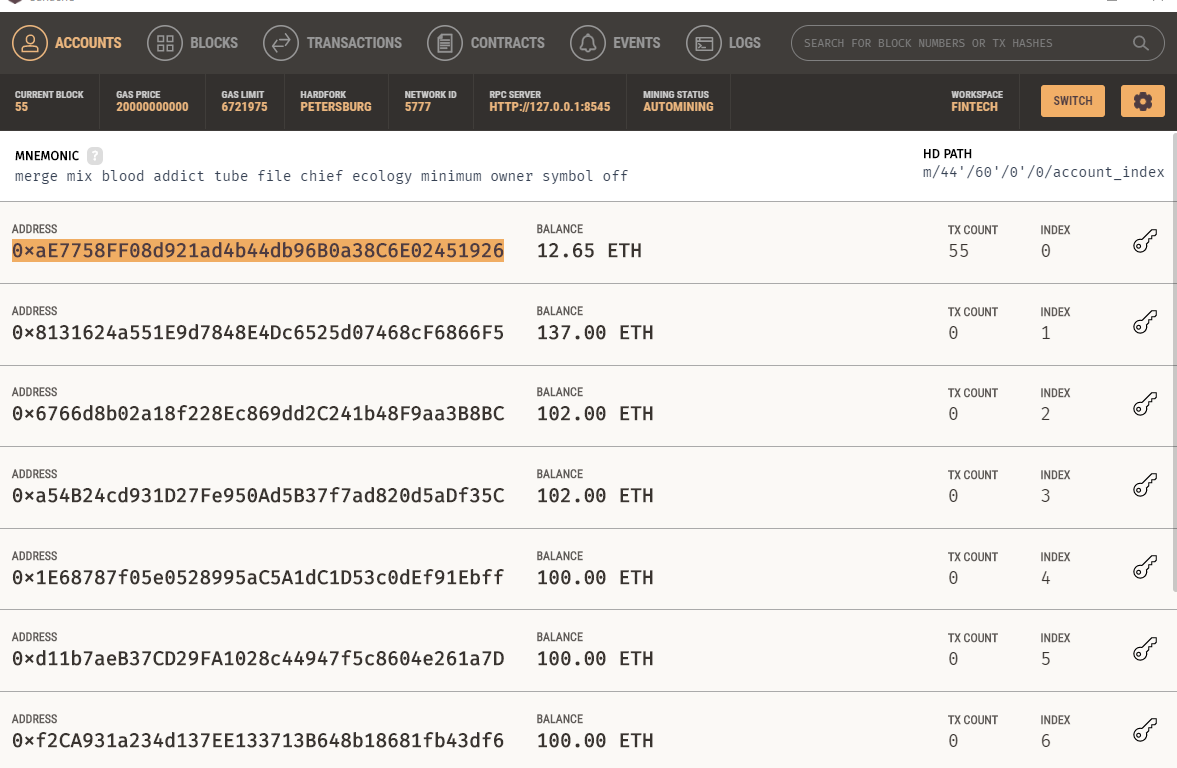
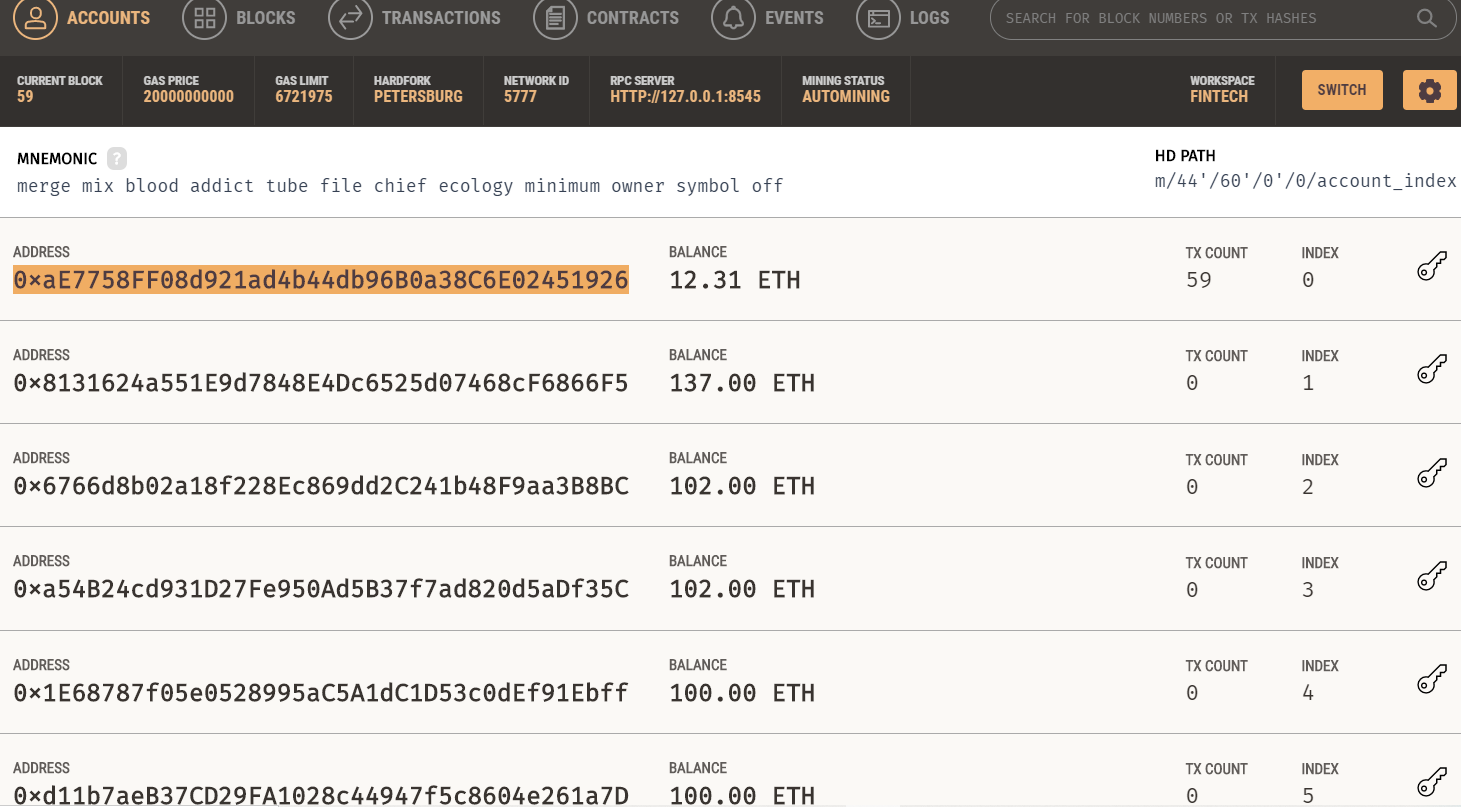
README completed

diff --git a/README.md b/README.md
@@ -1,2 +1,50 @@
 # PupperCoin
 Solidity file for PupperCoin Crowdsale
+
+
+This is a contract written in Solidity for Ethereum. It is designed to help fund development.
+
+## I. Dependencies
+The use of this contract requires the following:
+Ganache
+
+Metamask
+
+remix.ethereum.org
+
+MyCrypto
+
+## II. Operation
+
+> Step One - Change the testing timeframe in the solidity file from now+24 weeks to now+5 minutes so your crowdfunding is testable.
+
+![Change Time](Images/TestingTimeframe.png)
+
+> Step Two - Compile the contract and deploy using the PupperCoinSaleDeployer. Enter the name Symbol, wallet and goal information. *Note I used 10 coins as the goal to test the contract.*
+
+![Deploy](Images/Deploy.png)
+
+> Step Three - Confirm Deployment in MetaMask.
+![Deploy](Images/MetaDeploy.png)
+
+> Step Four - Locate the Token and Token Sale Addresses.
+![Deposit](Images/ContractAddress.png)
+
+> Step Five - Using the token_sale_address, deploy the PupperCoin Sale entering the address in the "At Address" field.
+
+![Sale](Images/SaleAddress.png)
+
+> Step Six - Using the token_address, deploy Puppercoin entering the address in the "At Address" field.
+
+> Step Seven - Enter the number of Ether you want to use to purchase tokens and enter the address next to "buy tokens" in PupperCoin Sale.
+
+![Amount](Images/PC_Sale.png)
+
+    > You will get a MetaMask confirmation when you enter the amount.
+
+>Step Eight - Use the Sale Features to determine how the crowdsale is going! You can see if the goal has been reached, if the sale is open, finalized, etc.
+![SaleFeatures](Images/Sale_Details.png)
+
+Use the PupperCoin features to use the minter or determine balances in individual accounts.
+
+![PupperCoinDetails](Images/PupperCoin_Details.png)
